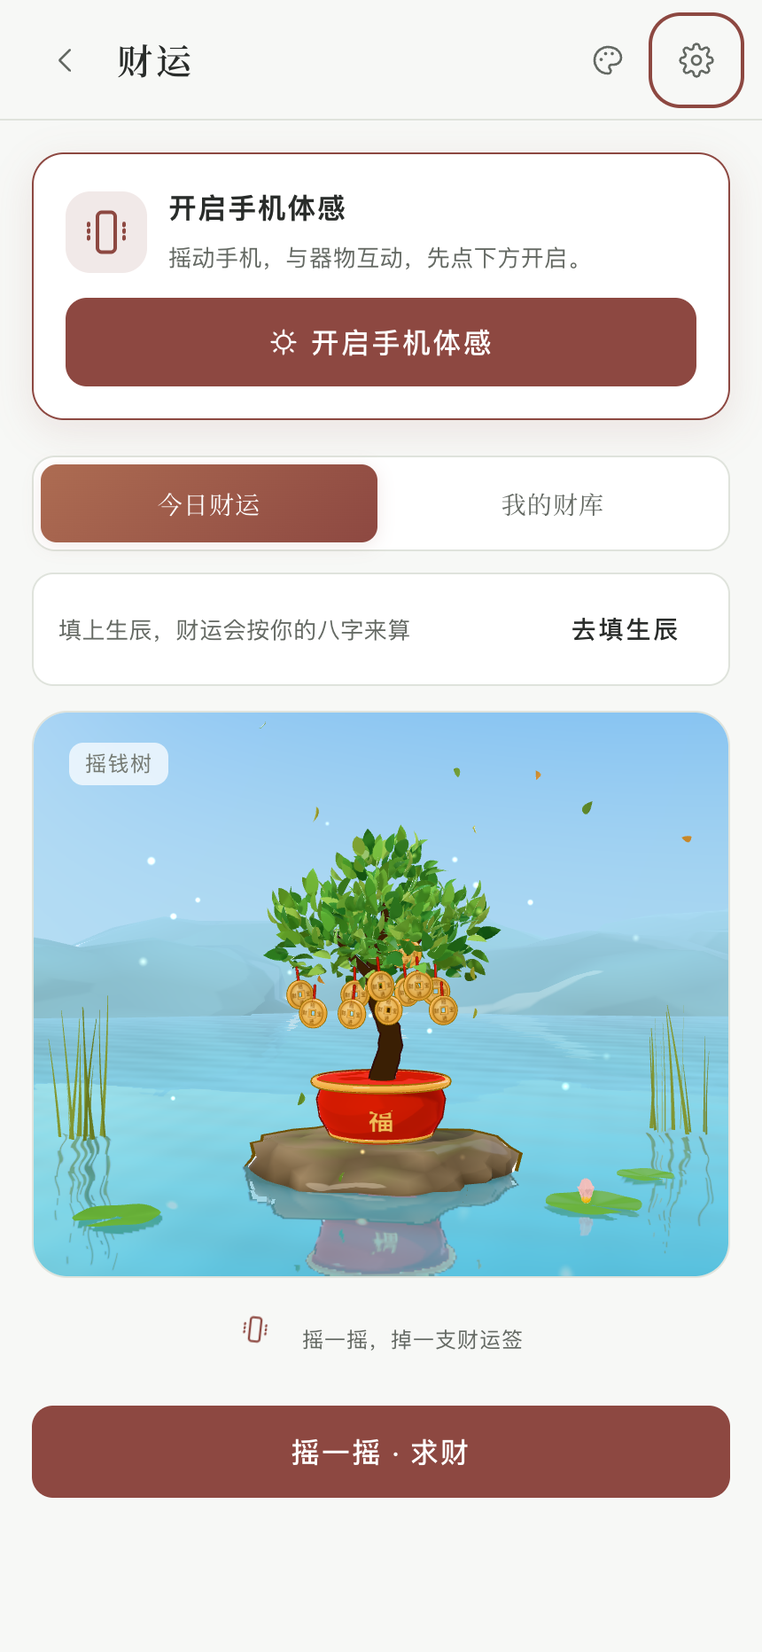
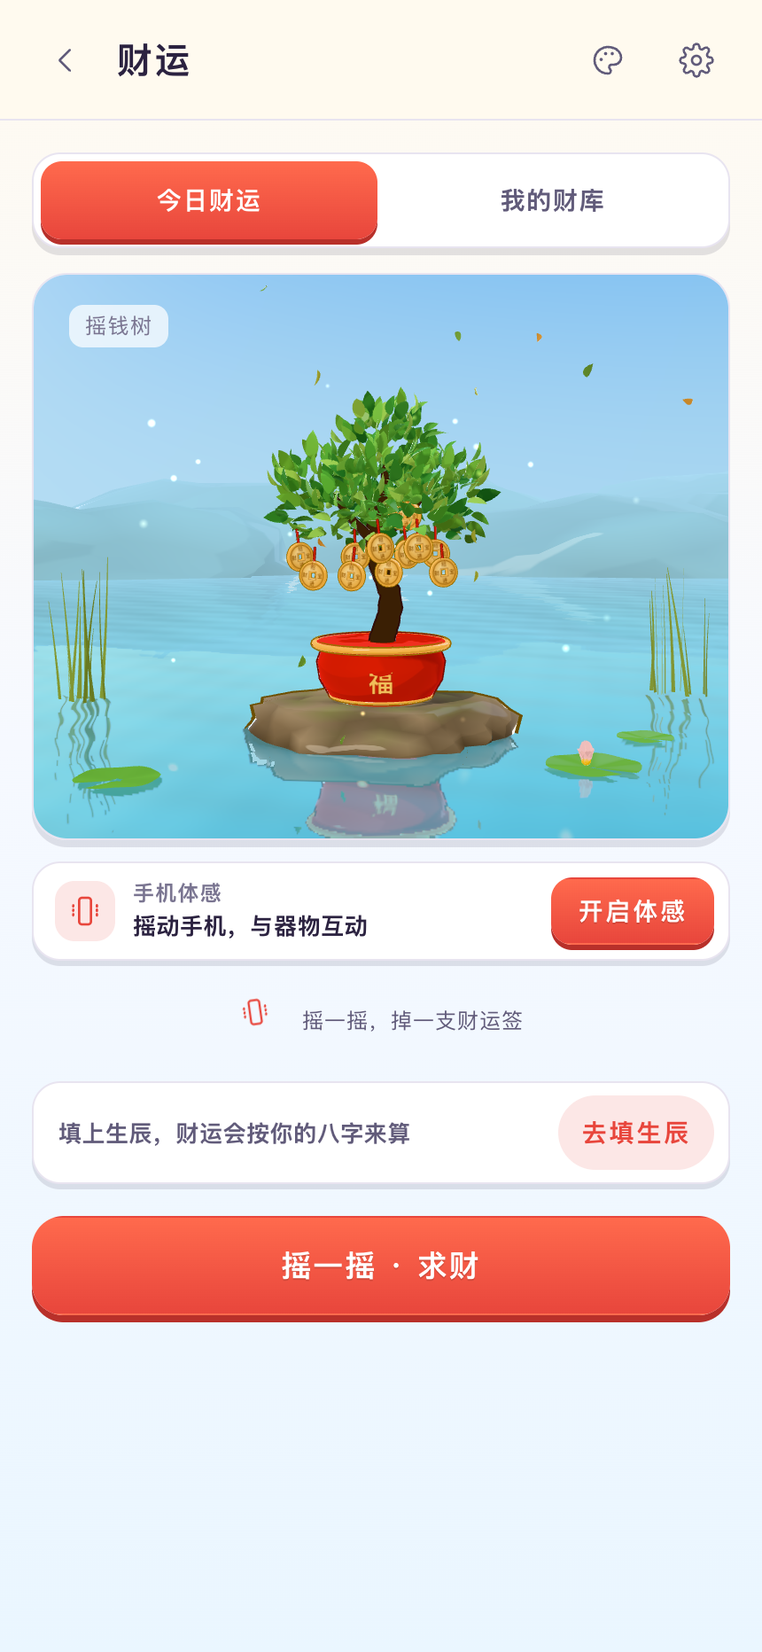
界面明快化与玩法页首屏重排：奶油白到天蓝底、白卡厚度边、红色渐变主按钮、圆体标题、双色玩法图标，体感授权移到舞台下方一行，生辰表单折叠
Claude-Session: https://claude.ai/code/session_014gWdXMidxvhdb97gsXLFWB

diff --git a/src/styles/playful.css b/src/styles/playful.css
@@ -1,0 +1,137 @@
+/* 明快手游层（visual-direction.md 第 3、4 节）：奶油白到浅天蓝的底、纯白厚边卡片、饱和红主按钮、圆体粗标题。
+   放在样式链最后，只改观感，不动布局逻辑。浅色默认皮肤「宣纸」换成新色板，深色皮肤只套用厚边与圆体。 */
+:root {
+  --font-round: ui-rounded, 'SF Pro Rounded', 'PingFang SC', -apple-system, BlinkMacSystemFont, 'Noto Sans SC', system-ui, sans-serif;
+  --c-sky: #6cc4ff; --c-sky-soft: #eaf6ff; --c-cream: #fffaf0;
+  --c-red: #e8463c; --c-red-deep: #b8302a; --c-gold: #ffc93c; --c-gold-deep: #d8901e;
+  --c-jade: #3fcf8e; --c-purple: #9b6bff; --c-ink: #2b2240; --c-ink-soft: #6b6585;
+  --radius-card: 20px;
+  --edge-color: rgba(0, 0, 0, .38);
+  --edge: 0 4px 0 var(--edge-color);
+  --btn-top: var(--accent-2);
+  --btn-bottom: var(--accent);
+  --btn-edge: var(--accent-3);
+  --ease-pop: cubic-bezier(.34, 1.56, .64, 1);
+}
+[data-theme='paper'] {
+  --bg: #fffaf0;
+  --bg-2: #f2f7fc;
+  --bg-3: #e4eef8;
+  --surface: #ffffff;
+  --surface-2: #f1f5fb;
+  --surface-strong: #ffffff;
+  --text: #2b2240;
+  --text-2: #615b7a;
+  --text-3: #7a7591;
+  --accent: #e8463c;
+  --accent-2: #ff6a4d;
+  --accent-3: #b8302a;
+  --accent-ink: #ffffff;
+  --line: #e8e4f0;
+  --line-strong: #cbc5da;
+  --glow: rgba(232, 70, 60, .13);
+  --header-bg: rgba(255, 250, 240, .9);
+  --sheet-bg: #fffdf8;
+  --stage-bg: linear-gradient(180deg, #ffffff 0%, #eef7ff 100%);
+  --edge-color: rgba(43, 34, 64, .12);
+  --btn-top: #ff6a4d;
+  --btn-bottom: #e8463c;
+  --btn-edge: #b8302a;
+  --noise-opacity: 0;
+}
+[data-theme='paper'] body { background: linear-gradient(180deg, #fffaf0 0%, #f6f9ff 45%, #eaf6ff 100%) fixed; }
+[data-theme='celadon'] { --edge-color: rgba(20, 60, 45, .14); }
+
+/* —— 字体：标题用圆体粗体，签诗正文仍是宋体 —— */
+.app-header .hd-title { font-family: var(--font-round); font-weight: 800; letter-spacing: .04em; }
+.app-header .hd-title small { font-family: var(--font-round); font-weight: 600; letter-spacing: .08em; }
+.home-intro h1 { font-family: var(--font-round); font-weight: 800; letter-spacing: .02em; line-height: 1.35; }
+.home-eyebrow { font-weight: 700; letter-spacing: .08em; }
+.home-calendar-day { font-family: var(--font-round); font-weight: 800; }
+.section-head .t-display { font-family: var(--font-round); font-weight: 800; letter-spacing: .04em; font-size: 19px; }
+.section-head .t-kicker { font-weight: 600; }
+.tile-title { font-family: var(--font-round); font-weight: 800; letter-spacing: .04em; }
+.ritual-receipt h2 { font-family: var(--font-round); font-weight: 800; letter-spacing: .03em; }
+.result .result-title { font-family: var(--font-round); font-weight: 800; letter-spacing: .04em; }
+.sheet-title { font-family: var(--font-round); font-weight: 800; }
+body { line-height: 1.6; }
+
+/* —— 卡片：纯白、圆角 20、底部 4px 同色深一档的厚度边，像手游按钮 —— */
+.tile, .view .tile {
+  border-radius: var(--radius-card); border: 1px solid var(--line); background: var(--surface);
+  box-shadow: var(--edge); transition: transform 90ms ease, box-shadow 90ms ease;
+  animation: lgj-pop 220ms var(--ease-pop) both;
+}
+.tile[data-ritual='jiaobei'], .tile[data-ritual='tarot'], .tile[data-ritual='omikuji'] { border-top: 1px solid var(--line); }
+.tile:hover { transform: translateY(-2px); box-shadow: 0 6px 0 var(--edge-color); }
+.tile:active { transform: translateY(3px); box-shadow: 0 1px 0 var(--edge-color); }
+.tile-gest { display: inline-block; padding: 3px 9px; border-radius: 999px; background: var(--surface-2); color: var(--text-2); font-weight: 600; }
+@keyframes lgj-pop { from { opacity: 0; transform: scale(.94) translateY(6px); } to { opacity: 1; transform: none; } }
+
+/* 双色图标：主色线条 + 同色浅底圆角块，每个玩法一种颜色 */
+.tile .ritual-art { --tint: var(--c-red); color: var(--tint); padding: 7px; border-radius: 18px; background: color-mix(in srgb, var(--tint) 14%, transparent); filter: none; box-sizing: border-box; }
+.tile[data-ritual='yinyuan'] .ritual-art, .tile[data-ritual='omikuji'] .ritual-art { --tint: #ff5c8a; }
+.tile[data-ritual='shiye'] .ritual-art, .tile[data-ritual='fengshui'] .ritual-art { --tint: #3d8bff; }
+.tile[data-ritual='caiyun'] .ritual-art, .tile[data-ritual='coin'] .ritual-art { --tint: var(--c-gold-deep); }
+.tile[data-ritual='jiaobei'] .ritual-art, .tile[data-ritual='qian'] .ritual-art, .tile[data-ritual='almanac'] .ritual-art { --tint: var(--c-red); }
+.tile[data-ritual='liuyao'] .ritual-art, .tile[data-ritual='bazi'] .ritual-art { --tint: #1fae74; }
+.tile[data-ritual='tarot'] .ritual-art, .tile[data-ritual='crystal'] .ritual-art, .tile[data-ritual='zodiac'] .ritual-art, .tile[data-ritual='runes'] .ritual-art { --tint: var(--c-purple); }
+.tile[data-ritual='wheel'] .ritual-art, .tile[data-ritual='plinko'] .ritual-art { --tint: #ff8a1f; }
+
+.home-calendar { border: 1px solid var(--line); border-radius: var(--radius-card); background: var(--surface); box-shadow: var(--edge); padding: 14px 16px; }
+.stage, [data-theme='paper'] .stage, [data-theme='celadon'] .stage { border-radius: var(--radius-card); box-shadow: var(--edge); }
+
+/* —— 主按钮：饱和渐变、圆角 18、底部 4px 深色边，按下下沉 3px —— */
+.btn { border-radius: 14px; font-family: var(--font-round); font-weight: 700; letter-spacing: .04em; transition: transform 90ms ease, box-shadow 90ms ease, background-color .2s; }
+.btn.primary, .view .btn.primary {
+  background: linear-gradient(180deg, var(--btn-top), var(--btn-bottom)); border-color: transparent; color: var(--accent-ink);
+  border-radius: 18px; box-shadow: 0 4px 0 var(--btn-edge); text-shadow: 0 1px 0 rgba(0, 0, 0, .12);
+}
+.btn.primary:active:not(:disabled) { transform: translateY(3px); box-shadow: 0 1px 0 var(--btn-edge); }
+.btn.primary:disabled { box-shadow: 0 2px 0 var(--btn-edge); }
+.btn.large { min-height: 56px; font-size: 17px; }
+.action-bar { margin-top: 18px; padding-bottom: 4px; }
+.btn.soft, .btn.ghost { font-weight: 700; }
+
+/* 页签：选中项是实心主色块 + 厚边 */
+.tabs { background: var(--surface); border: 1px solid var(--line); border-radius: 16px; box-shadow: var(--edge); }
+.tab { font-family: var(--font-round); font-weight: 700; border-radius: 12px; }
+.tab.active, .tabs .tab.active { background: linear-gradient(180deg, var(--btn-top), var(--btn-bottom)); color: var(--accent-ink); box-shadow: 0 3px 0 var(--btn-edge); }
+
+/* —— 玩法页首屏：体感授权在舞台下方只占一行，生辰卡折叠成一行 —— */
+.view-module .motion-entry:not(.ready) {
+  display: flex; align-items: center; gap: 10px; margin: 12px 0 0; padding: 8px 8px 8px 12px;
+  border: 1px solid var(--line); border-radius: 16px; background: var(--surface); box-shadow: 0 3px 0 var(--edge-color);
+}
+.view-module .motion-entry:not(.ready) .motion-entry-mark { width: 34px; height: 34px; flex: none; border-radius: 11px; color: var(--accent); background: var(--glow); }
+.view-module .motion-entry:not(.ready) .motion-entry-mark svg { width: 20px; height: 22px; }
+.view-module .motion-entry:not(.ready) .motion-entry-copy { flex: 1; gap: 0; }
+.view-module .motion-entry:not(.ready) .motion-entry-title { font-size: 12px; line-height: 1.4; color: var(--text-3); font-weight: 600; }
+.view-module .motion-entry:not(.ready) .motion-entry-desc { font-size: 13px; line-height: 1.45; color: var(--text); font-weight: 600; }
+.view-module .motion-entry > .btn { grid-column: auto; width: auto; flex: none; min-height: 38px; padding: 6px 14px; font-size: 14px; border-radius: 12px; box-shadow: 0 3px 0 var(--btn-edge); }
+.view-module .motion-entry.ready { margin: 10px 0 0; padding: 2px 4px; }
+
+.birth-fold { margin-top: 12px; }
+.birth-fold-toggle {
+  display: flex; align-items: center; justify-content: space-between; gap: 10px; width: 100%; min-height: 48px; padding: 9px 10px 9px 14px;
+  border: 1px solid var(--line); border-radius: 16px; background: var(--surface); box-shadow: 0 3px 0 var(--edge-color);
+  color: var(--text-2); font: 600 14px/1.45 var(--font-sans); text-align: left; cursor: pointer; transition: transform 90ms ease, box-shadow 90ms ease;
+}
+.birth-fold-toggle:active { transform: translateY(2px); box-shadow: 0 1px 0 var(--edge-color); }
+.birth-fold-text { flex: 1; min-width: 0; overflow-wrap: anywhere; }
+.birth-fold-caret { flex: none; padding: 5px 12px; border-radius: 999px; background: var(--glow); color: var(--accent); font: 700 13px/1.3 var(--font-round); }
+.birth-fold-body { padding-top: 14px; }
+.birth-fold-body[hidden] { display: none; }
+.m-caiyun .cy-profile, .m-shiye .sy-profile { margin-top: 12px; padding: 7px 8px 7px 14px; border-radius: 16px; background: var(--surface); box-shadow: 0 3px 0 var(--edge-color); font-weight: 600; }
+.m-caiyun .cy-profile .btn, .m-shiye .sy-profile .btn { border-radius: 999px; background: var(--glow); color: var(--accent); min-height: 34px; }
+.view-module .hint { margin-top: 12px; }
+
+@media (prefers-reduced-motion: reduce) {
+  .tile { animation: none; }
+  .btn, .tile, .birth-fold-toggle { transition: none; }
+}
+
+/* 选项胶囊与小标题 */
+.chip { font-family: var(--font-round); font-weight: 600; border-radius: 12px; }
+.chip.active { background: var(--glow); border-color: transparent; color: var(--accent); font-weight: 800; }
+.section-head .t-kicker { font-family: var(--font-round); }

diff --git a/src/modules/yinyuan/view.js b/src/modules/yinyuan/view.js
@@ -4,7 +4,7 @@ import { loveProfile, matchPair, shareMatch, shareLove, formatDate } from './cor
 import { UI, YEAR_NOTES } from './data.js';
 import { createRitual } from '../../ui/ritual.js';
 import { createModelSlot } from '../../ui/model-slot.js';
-import { createBirthForm, describeBirth } from '../../ui/birth-form.js';
+import { createBirthForm, createBirthFold, describeBirth } from '../../ui/birth-form.js';
 
 export function mount(container, ctx) {
   const { kit, haptic, sound, storage, profile } = ctx;
@@ -20,11 +20,25 @@ export function mount(container, ctx) {
   /* ---------- 生辰表单 ---------- */
   const self = profile.get() || { y: 1995, m: 6, d: 18, hour: -1, gender: 'male' };
   const partnerDefault = profile.get('partner') || { y: 1996, m: 8, d: 8, hour: -1, gender: self.gender === 'female' ? 'male' : 'female' };
-  const selfForm = createBirthForm(ctx, { value: self, title: UI.formTitle.self, onChange: (v) => { profile.set('self', v); aForm.set(v); invalidate(); } });
-  const aForm = createBirthForm(ctx, { value: self, title: UI.formTitle.a, onChange: (v) => { profile.set('self', v); selfForm.set(v); invalidate(); } });
-  const bForm = createBirthForm(ctx, { value: partnerDefault, title: UI.formTitle.b, onChange: (v) => { profile.set('partner', v); invalidate(); } });
-  const selfWrap = h('div', { class: 'yy-forms' }, selfForm.el);
-  const pairWrap = h('div', { class: 'yy-forms yy-pair', hidden: true }, aForm.el, h('div', { class: 'yy-x', attrs: { 'aria-hidden': 'true' } }, '×'), bForm.el);
+  const selfForm = createBirthForm(ctx, { value: self, title: UI.formTitle.self, onChange: (v) => { profile.set('self', v); aForm.set(v); syncFolds(); invalidate(); } });
+  const aForm = createBirthForm(ctx, { value: self, title: UI.formTitle.a, onChange: (v) => { profile.set('self', v); selfForm.set(v); syncFolds(); invalidate(); } });
+  const bForm = createBirthForm(ctx, { value: partnerDefault, title: UI.formTitle.b, onChange: (v) => { profile.set('partner', v); syncFolds(); invalidate(); } });
+  // 生辰表单折叠成舞台下方一行，点开再改，首屏留给器物
+  const hasSelf = () => !!profile.get();
+  const selfFold = createBirthFold({
+    cls: 'yy-fold',
+    summary: () => (hasSelf() ? `我的生辰 · ${describeBirth(selfForm.value)}` : `填上生辰更准 · 现按 ${describeBirth(selfForm.value)}`),
+    content: h('div', { class: 'yy-forms' }, selfForm.el),
+  });
+  const pairFold = createBirthFold({
+    cls: 'yy-fold',
+    summary: () => `两人生辰 · ${describeBirth(aForm.value).split(' · ')[0]} × ${describeBirth(bForm.value).split(' · ')[0]}`,
+    content: h('div', { class: 'yy-forms yy-pair' }, aForm.el, h('div', { class: 'yy-x', attrs: { 'aria-hidden': 'true' } }, '×'), bForm.el),
+  });
+  const selfWrap = selfFold.el;
+  const pairWrap = pairFold.el;
+  pairWrap.hidden = true;
+  function syncFolds() { selfFold.update(); pairFold.update(); }
 
   /* ---------- 舞台：同心结 / 红线（实物占位，等待外部模型） ---------- */
   const st = stage({ cls: 'yy-stage', badge: UI.badge[tab] });
@@ -56,7 +70,7 @@ export function mount(container, ctx) {
     },
   });
   const quickEl = h('div', { class: 'yy-quick' });
-  container.append(ritual.progress, tabBar.el, selfWrap, pairWrap, st.el, pips, hintEl, kit.actionBar(primaryBtn), ritual.receipt);
+  container.append(ritual.progress, tabBar.el, st.el, pips, hintEl, selfWrap, pairWrap, kit.actionBar(primaryBtn), ritual.receipt);
 
   ctx.gesture.tap(knot.el, () => act());
   ctx.gesture.tap(thread.el, () => act());
@@ -122,6 +136,7 @@ export function mount(container, ctx) {
       return;
     }
     profile.set('self', selfForm.value);
+    syncFolds();
     knot.set({ active: false, revealed: true, text: love.daily.title });
     sound.play('chime');
     haptic.settle();
@@ -215,6 +230,7 @@ export function mount(container, ctx) {
     }
     profile.set('self', aForm.value);
     profile.set('partner', bForm.value);
+    syncFolds();
     clear(pips);
     const pipEls = match.items.map((it) => h('span', { class: ['yy-pip', it.tone] }, `${it.label} · ${it.title}`));
     pips.append(...pipEls);

diff --git a/src/ui/motion-prompt.js b/src/ui/motion-prompt.js
@@ -23,7 +23,7 @@ export function createMotionPrompt({ motion, meta, requestPermission, haptic, in
   const mark = h('span', { class: 'motion-entry-mark', attrs: { 'aria-hidden': 'true' } }, icon('g-' + gesture, { size: 30 }));
   const title = h('strong', { class: 'motion-entry-title' });
   const desc = h('span', { class: 'motion-entry-desc' });
-  const enable = button('开启手机体感', { variant: 'primary', icon: 'motion', onClick: activate });
+  const enable = button('开启体感', { variant: 'primary', size: 'small', onClick: activate });
   const el = h('aside', { class: 'motion-entry', hidden: !supported, attrs: { 'aria-label': '手机体感' } }, mark, h('div', { class: 'motion-entry-copy', attrs: { 'aria-live': 'polite' } }, title, desc), enable);
 
   function instructions() {
@@ -41,11 +41,11 @@ export function createMotionPrompt({ motion, meta, requestPermission, haptic, in
     el.hidden = !supported || motion.state === 'unsupported';
     el.classList.toggle('ready', ready);
     el.setAttribute('aria-busy', String(busy));
-    title.textContent = ready ? '体感已开启' : '开启手机体感';
-    desc.textContent = ready ? action : motion.state === 'denied' || error ? instructions() : action + '，先点下方开启。';
+    title.textContent = ready ? '体感已开启' : '手机体感';
+    desc.textContent = ready ? action : motion.state === 'denied' || error ? instructions() : action;
     enable.hidden = ready;
     enable.disabled = busy;
-    enable.setLabel(busy ? '正在申请…' : motion.state === 'denied' || error ? '重新开启体感' : '开启手机体感');
+    enable.setLabel(busy ? '申请中…' : motion.state === 'denied' || error ? '重试' : '开启体感');
     if (detail) detail.textContent = instructions();
     if (dialogButton) { dialogButton.disabled = busy; dialogButton.setLabel(busy ? '正在申请…' : motion.state === 'denied' || error ? '重新开启体感' : '开启手机体感'); }
     if (ready) dialog?.close();

diff --git a/src/ui/birth-form.js b/src/ui/birth-form.js
@@ -94,3 +94,27 @@ export function createBirthForm(ctx, { value, onChange, hour = true, gender = tr
     },
   };
 }
+
+/**
+ * 折叠的生辰卡：平时只露一行「我的生辰 · 1995.06.18 · 男 ✎」，点开才显示完整表单，把首屏让给器物舞台。
+ * createBirthFold({ summary: () => string, content: Node | Node[], open }) → { el, update(), setOpen(v), get open }
+ */
+export function createBirthFold({ summary, content, open = false, cls = '' } = {}) {
+  const text = h('span', { class: 'birth-fold-text' });
+  const caret = h('span', { class: 'birth-fold-caret', attrs: { 'aria-hidden': 'true' } });
+  const body = h('div', { class: 'birth-fold-body' }, ...(Array.isArray(content) ? content : [content]));
+  const toggle = h('button', { type: 'button', class: 'birth-fold-toggle', onClick: () => setOpen(!isOpen) }, text, caret);
+  const el = h('div', { class: ['birth-fold', cls] }, toggle, body);
+  let isOpen = false;
+  function update() { text.textContent = summary(); }
+  function setOpen(v) {
+    isOpen = !!v;
+    body.hidden = !isOpen;
+    el.classList.toggle('open', isOpen);
+    toggle.setAttribute('aria-expanded', String(isOpen));
+    caret.textContent = isOpen ? '收起' : '修改';
+  }
+  update();
+  setOpen(open);
+  return { el, update, setOpen, get open() { return isOpen; } };
+}

diff --git a/src/ui/app.js b/src/ui/app.js
@@ -167,6 +167,12 @@ export function startApp(root) {
     try {
       const un = await impl.mount(el, ctx);
       ctx.addCleanup(typeof un === 'function' ? un : null);
+      // 体感邀请放到器物舞台正下方，作为一行轻提示，首屏先看到器物
+      if (prompt) {
+        let anchor = el.querySelector('.stage');
+        while (anchor && anchor.parentElement !== el) anchor = anchor.parentElement;
+        if (anchor) anchor.after(prompt.el);
+      }
       el.dataset.ready = '1';
     } catch (e) {
       console.error(`[module:${target}] mount failed`, e);

diff --git a/src/modules/shiye/view.js b/src/modules/shiye/view.js
@@ -62,7 +62,7 @@ export function mount(container, ctx) {
     },
   });
   const quickEl = h('div', { class: 'sy-quick' });
-  container.append(ritual.progress, tabBar.el, profileLine, formWrap, st.el, hintEl, kit.actionBar(primaryBtn), ritual.receipt);
+  container.append(ritual.progress, tabBar.el, st.el, hintEl, profileLine, formWrap, kit.actionBar(primaryBtn), ritual.receipt);
 
   ctx.gesture.tap(seal.el, () => act());
   ctx.gesture.tap(ladder.el, () => act());

diff --git a/src/modules/caiyun/view.js b/src/modules/caiyun/view.js
@@ -62,7 +62,7 @@ export function mount(container, ctx) {
     },
   });
   const quickEl = h('div', { class: 'cy-quick' });
-  container.append(ritual.progress, tabBar.el, profileLine, formWrap, st.el, hintEl, kit.actionBar(primaryBtn), ritual.receipt);
+  container.append(ritual.progress, tabBar.el, st.el, hintEl, profileLine, formWrap, kit.actionBar(primaryBtn), ritual.receipt);
 
   ctx.gesture.tap(tree.el, () => act());
   ctx.gesture.tap(vault.el, () => act());

diff --git a/src/styles/index.css b/src/styles/index.css
@@ -10,3 +10,4 @@
 @import './refinement.css';
 @import './fit.css';
 @import './atelier.css';
+@import './playful.css';

diff --git a/docs/claude-plan/run-log.md b/docs/claude-plan/run-log.md
@@ -87,3 +87,29 @@
 - 【需要处理，第 3 次提醒】GitHub 推送凭据。任选一种：在这台 Mac 的终端里进入 laiganjue 目录运行一次 `git push origin claude/polish-ui-monetize` 并按提示登录，或者在 Claude 的定时任务设置里把 PeytonLiuBruin/laiganjue 加入授权仓库。
 - 审阅 store-listing.md 的名称、副标题与描述，App 名称一旦提交审核后修改要走新版本。
 - 决定何时把本分支合并到 GitHub Pages 的发布分支，让 terms.html 上线（付费卡链接依赖它）。
+
+## 第 4 轮 · 2026-10-22 16:55–17:45 UTC（PDT 09:55–10:45）
+
+开始状态：分支 claude/polish-ui-monetize，工作区干净，本地比远端多 4 个提交（第 1 到 3 轮未推送）。pull --rebase 无变化，.lock 为 idle。没有别人留下的未提交改动。
+
+完成的待办：
+- ✅ P1 玩法页首屏重排。体感授权从页面顶部的大卡改为舞台正下方的一行（图标 + 动作说明 + 「开启体感」小按钮），所有带体感的玩法统一在 `app.js` 挂载后移位。姻缘的生辰表单折叠成舞台下方一行「我的生辰 · 1995.06.18 · 男 修改」（`birth-form.js` 新增 `createBirthFold`），合婚页同样折叠为「两人生辰 · A × B」。财运、事业的生辰行移到舞台下方。393×852 下舞台顶部从约 400px 提到约 155px。
+- ✅ P1 2D 界面明快化。新增 `src/styles/playful.css`（样式链最后一层）：宣纸皮肤换成奶油白到浅天蓝的渐变底、纯白卡片圆角 20 带 4px 厚度边、主按钮红色渐变 + 深红厚边 + 按下下沉 3px、页签选中为实心红块、标题统一圆体 800 字重、玩法图标改为每个玩法一种颜色的双色图标块、卡片 220ms 弹出动画（尊重减少动态效果设置）。深色皮肤只继承厚边、圆体和按钮造型，颜色跟随原皮肤。
+
+检查结果：
+- `npm run build` 通过，`npm test` 341 项全部通过，`npm run e2e` 8 项全部通过。
+- 截图（docs/claude-plan/screenshots/，10 张，393×852 与 430×932）：首页、姻缘、财运、灵签、塔罗。无横向溢出、无报错（塔罗牌阵选项是有意的横向滚动）。器物舞台在两种尺寸下都进入首屏上半部，按钮和生辰行文字无截断。
+- 另截玄墨深色皮肤首页、灵签、财运（未存入仓库），厚边与金色按钮对比度正常。
+
+同步到 GitHub：本地提交成功，`git push` 仍然失败（could not read Username，这台 Mac 没有 GitHub 凭据）。第 1 到 4 轮共 5 个提交都在本地分支上，配好凭据后会一起推送。
+
+遗留问题：
+- 朱砂、星穹两套深色皮肤还没截图核对（已加入 TODO P1）。
+- 商店截图需要按新界面重新生成（已加入 TODO P1）。
+- 首页顶部导航栏仍是半透明奶油色，和下方渐变衔接还可以再柔和一些。
+
+下一轮计划：付费卡挂 StoreKit 配置文件在模拟器里显示本地化价格，然后重新生成商店截图。
+
+待 Peyton 决定：
+- 【需要处理，第 4 次提醒】GitHub 推送凭据。在这台 Mac 的终端里进入 laiganjue 目录运行一次 `git push origin claude/polish-ui-monetize` 并按提示登录即可，之后定时任务就能自动推送。
+- 价格档位、App Store Connect 内购产品、包名、GitHub Pages 合并时机，同第 3 轮。

diff --git a/docs/claude-plan/TODO.md b/docs/claude-plan/TODO.md
@@ -33,13 +33,16 @@ P0 上架必需 · P1 影响付费转化 · P2 体验打磨。完成后打勾并
 
 - [ ] **卡通化补完**：灵摆水晶（透射材质，仍是写实）、元宝揭晓时发光偏白、双面材质（同心结丝绳）没有描边、叶片与流苏等实例化物体没有描边、风水罗盘俯视角下石台左右边缘有白色碎边（不是水面反射，也不是描边，待查光照或阴影）。完成标准：gallery:3d 11 件器物浅深两套截图逐一过目，无写实材质残留。
 
-- [ ] **玩法页首屏重排**：3D 舞台进入首屏上半部，体感授权卡改为舞台下一行提示，生辰卡折叠。完成标准：393×852 截图中舞台顶部在 300px 以内。
-- [ ] **2D 界面明快化**：按 visual-direction.md 第 3、4 节换浅色皮肤的色板、卡片厚度边、主按钮、圆体标题。完成标准：首页与 3 个玩法页截图通过，文字无截断。
+- [x] **玩法页首屏重排** ✅ 2026-10-22（第 4 轮，体感授权移到舞台正下方一行，姻缘生辰表单折叠为一行 `createBirthFold`，财运事业的生辰行移到舞台下方，393×852 下舞台顶部约 155px）：3D 舞台进入首屏上半部，体感授权卡改为舞台下一行提示，生辰卡折叠。完成标准：393×852 截图中舞台顶部在 300px 以内。
+- [x] **2D 界面明快化** ✅ 2026-10-22（第 4 轮，新增 `src/styles/playful.css`：宣纸皮肤换奶油白到浅天蓝底、白卡厚度边、红色渐变主按钮带下沉、圆体粗标题、双色玩法图标，深色皮肤只套厚边与圆体）：按 visual-direction.md 第 3、4 节换浅色皮肤的色板、卡片厚度边、主按钮、圆体标题。完成标准：首页与 3 个玩法页截图通过，文字无截断。
 - [ ] **器物动作弹性**：触发动作加入预备、过冲、回弹，揭晓时放大回弹 + 金星粒子。完成标准：gallery:3d 三阶段截图可见差异，e2e 通过。
 - [ ] **结果分享卡**：竖版卡片（器物截图 + 签文 + App 名），免费版带水印，Pro 无水印。
 - [ ] **Pro 入口与皮肤商店**：设置页与皮肤选择页的 Pro 入口，付费皮肤预览。
 - [ ] **App 图标卡通化**：按新色板重画 1024 图标并重新生成各尺寸。
 - [ ] **英文界面（至少首页、玩法名、按钮、付费卡）**
+
+- [ ] **深色皮肤（朱砂、星穹）的厚边与按钮检查**：第 4 轮已截玄墨皮肤首页、灵签、财运，按钮厚边和文字对比度正常。完成标准：朱砂与星穹各截首页与 2 个玩法页两种尺寸，无问题。
+- [ ] **重新生成商店截图**：2D 界面已换新配色，`scripts/store-shots.mjs` 重跑并固定塔罗正位牌。完成标准：12 张新图逐张过目。
 
 ## P2
 
